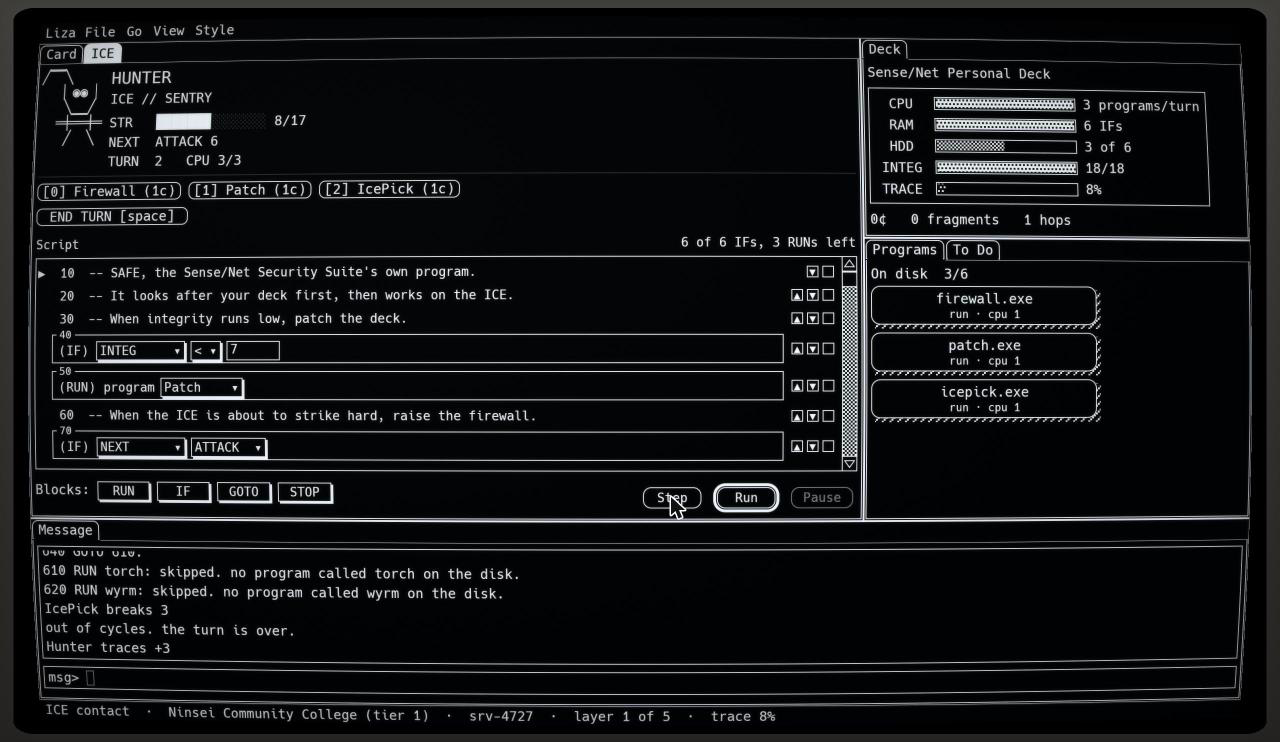
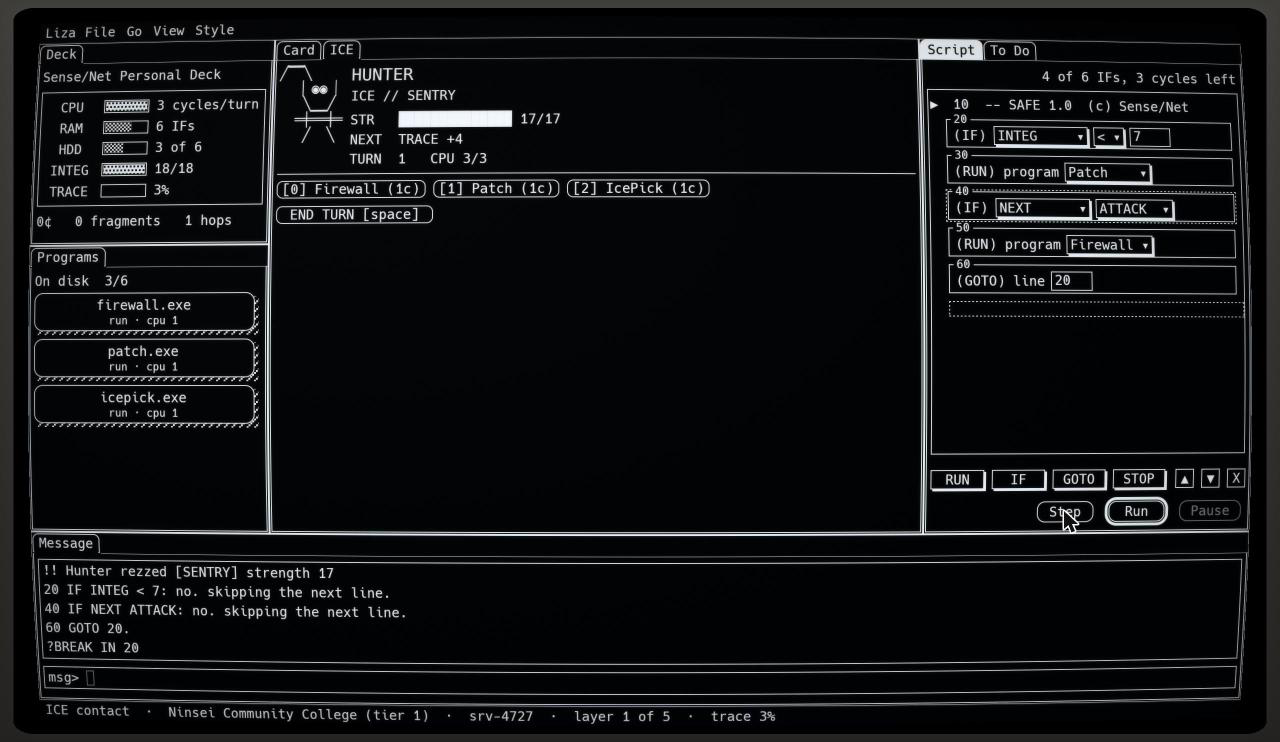
docs: the Script pane and the Stack's three columns; new shots

Changed region(s): [[0.0312, 0.031, 0.9688, 0.8989]]

diff --git a/docs/architecture.md b/docs/architecture.md
@@ -88,12 +88,12 @@ Monitors and decks live in `data/hub/hardware.ron` (`HardwareDef::validate`); wh
 
 ## The run screen
 
-- **Chromes are plug-ins.** A firmware's `hardware::Chrome` picks how the run screen is dressed; `crates/app/src/chrome.rs` maps it to a `ChromeView` (`chrome::view`): one method per pane, plus tab titles, menus (arranged from shared `MenuPart`s), the status line, an optional bar under the panes, keys, an overlay and the default layout. Every method defaults to Classic, so a new chrome is a `Chrome` variant plus a `ChromeView` that overrides only what it changes. Never test the chrome in a pane; ask the view. `btop.rs` (`Chrome::Btop`), `suite.rs` (`Chrome::Suite`, the Hosaka) and `stack.rs` (`Chrome::Stack`, the Sense/Net: HyperCard, 1-bit; `ChromeView::one_bit` keeps glitches from splitting colour, `ChromeView::palette` folds the run to ink on paper, `ChromeView::dock_style` dresses the panels as HyperCard windows, and a fight puts the **Script card** under the ICE: `ninsei_core::stack_fight::card` decides it (the program's lines as `Block`s with their `Field`s, pop-up menus that list only the disk and number fields, the ▶ on the line about to run, which of Step, Run and Pause can be pressed, and the budgets in words), and `stack_fight::{set_field, add, insert_before, remove, swap}` turn an edit into one `Action::Program` with one line rewritten, so the card holds nothing of its own; `stack.rs` only draws it with the Liza kit (`popup_menu`, `text_field`, `dotted`, `push_button`), scrolling rows of their own heights a whole row at a time, a palette chip clicked or dragged (egui's drag and drop, `BlockKind` the payload) to add a block, and its keys through `ChromeView::keys` before the shared hotkeys: Enter presses Run, Esc pauses a running program and never closes anything) are the three so far; the suite's rules (sheet sorting, formulas, axes, work-order totals, dialogs via `suite::Watch`) live in core's `suite.rs`. The btop chrome (`crates/app/src/btop.rs`) keeps its timings in `btop::anim` and colours its gradients with `btop::ramp` (`faint → dim → fg → bright`); dot-graph maths is `history::plot`, tested in core; the font has no braille, so the app paints the dots. Both chromes lay their frames out on the kit's cells in their own 12pt type: btop's boxes (`btop::boxed`: the border through the outer cells, the title turned into the top edge `┐title┌` and a note turned up into the bottom one `┘note└`, both cut with `…` to fit, the body 10px and 12px inside the line as before, and always drawn, however small the box) meters (`Cells::gauge` with dotted unlit cells: a little thinner than the old meter and square-cornered, the kit's cell) and the warez table, whose NAME is as wide as the widest real name, dropping CPU before it would slice one; the suite's document window (`suite::window`: the kit's double frame with `[■]` and `[n]` set in its top edge, a heading row only for a document's own title, never repeating its tab, a 5px shadow, and the body always drawn), its status line and F-key legend (one-row kit sheets), its dialogs' bodies (a sheet, lines wrapped), its activity log (whole rows of cells through `ScrollArea::show_rows`, only the rows in view painted), and its spreadsheet, whose columns come from core's `suite::sheet_widths` (each its widest real value and its header with a sort arrow, a cell of padding either side), so nothing is cut at a clip rect.
+- **Chromes are plug-ins.** A firmware's `hardware::Chrome` picks how the run screen is dressed; `crates/app/src/chrome.rs` maps it to a `ChromeView` (`chrome::view`): one method per pane, plus tab titles, menus (arranged from shared `MenuPart`s), the status line, an optional bar under the panes, keys, an overlay and the default layout. Every method defaults to Classic, so a new chrome is a `Chrome` variant plus a `ChromeView` that overrides only what it changes. Never test the chrome in a pane; ask the view. `btop.rs` (`Chrome::Btop`), `suite.rs` (`Chrome::Suite`, the Hosaka) and `stack.rs` (`Chrome::Stack`, the Sense/Net: HyperCard, 1-bit; `ChromeView::one_bit` keeps glitches from splitting colour, `ChromeView::palette` folds the run to ink on paper, `ChromeView::dock_style` dresses the panels as HyperCard windows, and its **Script pane** is the **Script card**, on screen the whole run beside the ICE card: `ninsei_core::stack_fight::card` decides it (with `Card::fighting` and `Card::budget_words`: the budgets left this turn in a fight, the deck's limits a turn outside one, where Step, Run and Pause stay greyed) (the program's lines as `Block`s with their `Field`s, pop-up menus that list only the disk and number fields, the ▶ on the line about to run, which of Step, Run and Pause can be pressed, and the budgets in words), and `stack_fight::{set_field, add, insert_before, remove, swap}` turn an edit into one `Action::Program` with one line rewritten, so the card holds nothing of its own; `stack.rs` only draws it with the Liza kit (`popup_menu`, `text_field`, `dotted`, `push_button`), scrolling rows of their own heights a whole row at a time, a palette chip clicked or dragged (egui's drag and drop, `BlockKind` the payload) to add a block, a click on a block selecting it (view state in egui memory, by line number, dropped when the line goes) for the palette's move and clear boxes (`stack_fight::moved_to` says where a moved block lands, so the selection follows it), the Deck card's bars sized to the column (`bar_width`), and its keys through `ChromeView::keys` before the shared hotkeys: Enter presses Run, Esc pauses a running program and never closes anything) are the three so far; the suite's rules (sheet sorting, formulas, axes, work-order totals, dialogs via `suite::Watch`) live in core's `suite.rs`. The btop chrome (`crates/app/src/btop.rs`) keeps its timings in `btop::anim` and colours its gradients with `btop::ramp` (`faint → dim → fg → bright`); dot-graph maths is `history::plot`, tested in core; the font has no braille, so the app paints the dots. Both chromes lay their frames out on the kit's cells in their own 12pt type: btop's boxes (`btop::boxed`: the border through the outer cells, the title turned into the top edge `┐title┌` and a note turned up into the bottom one `┘note└`, both cut with `…` to fit, the body 10px and 12px inside the line as before, and always drawn, however small the box) meters (`Cells::gauge` with dotted unlit cells: a little thinner than the old meter and square-cornered, the kit's cell) and the warez table, whose NAME is as wide as the widest real name, dropping CPU before it would slice one; the suite's document window (`suite::window`: the kit's double frame with `[■]` and `[n]` set in its top edge, a heading row only for a document's own title, never repeating its tab, a 5px shadow, and the body always drawn), its status line and F-key legend (one-row kit sheets), its dialogs' bodies (a sheet, lines wrapped), its activity log (whole rows of cells through `ScrollArea::show_rows`, only the rows in view painted), and its spreadsheet, whose columns come from core's `suite::sheet_widths` (each its widest real value and its header with a sort arrow, a cell of padding either side), so nothing is cut at a clip rect.
 - **The sound pop-out is the chrome's.** Every run screen has one control for the sound: the level (`Save::volume`, a percentage, full by default) and the switch (`Save::sound`, the same one the System app shows). `crates/app/src/volume.rs` holds what's shared: `volume::Level` read from the save, `volume::Popup` (open, and what was set when it opened, so a Cancel can put it back), `Level::to` turning a change into `Request::Volume` and `Request::SoundOn`, and `volume::start`/`volume::keys`, which take the keyboard from the command line while it's open (the run's hotkeys, the chrome's keys and the terminal's focus all stand back; however it closes, the command line gets the keys back). It never opens over something that already has the keyboard (`App::modal_up`: a BBS, a conversation, a suite notice), and one of those coming up closes it. `volume::hit` names a control drawn in cells or pixels. The chrome opens and dresses it: a `MenuPart::Sound` item worded by `ChromeView::sound_item`, and `ChromeView::sound`, drawn over the overlay while it's open. The classic default is a small window with a slider; btop puts a bar-module speaker in its status line (`ChromeView::status_extra`, which gets a `FrameCx` and returns requests) that opens a box of whole cells over it; the suite has Edit > Sound..., a dialog with OK and Cancel, drawn by the same `suite::dialog` and `suite::buttons` as its notices; Liza has View > Control Panel..., the Mac's Speaker Volume slider (0 to 7) and a Sound box in a striped window (`liza::window_frame`). Notches map to the level through core's `hub::volume_notch` and `hub::notch_volume`. The pop-out only pushes requests; `main.rs` applies them to the save and the speaker.
-- **Panes are modular, and secondary panes are owned.** `panes::Tab` lists every pane: `Tab::CORE` are always there; `Tab::SECONDARY` pairs each extra pane with its id in `data/hub/panes.ron` (`PaneDef`). A secondary pane is available when bought in RIG (`Save::buy_pane`, `Save::panes`) or bundled with the firmware (`FirmwareDef::panes`); read it with `Save::has_pane`. A new pane is a variant, an id, a catalog entry and a renderer, dressed by each chrome (`ChromeView::net` is the pattern). The two so far are `net` (traffic, bundled with Cyberspace 7.0) and `vis` (`Tab::Vis`, sold only): what the speaker is playing, from `Panes::hear`, which calls `Speaker::listen` only when a vis pane is drawn (a tab behind another one never asks), and `vispane::alive` asks for frames only while something is heard. It never reads the game. The maths is core's `scope.rs` (a Hann-weighted radix-2 FFT into bars spaced evenly in pitch, levels in dB, and `ballistics`: bars jump up and fall at `FALL_PER_SEC`). `vispane.rs` has the shared parts: the trace, `bars` (asks for frames only while a bar is still falling, so silence is still), and `held` (numbers take a new reading every `HOLD_SECS`, so they never strobe). btop draws a box of cell columns (`Cells::meter_up`), the suite a SOUND LEVEL REPORT (a form and a band chart in dB), and the Stack chrome (the Sense/Net) a 1-bit Scope card with a dotted ink graticule. The default layout is the chrome's (`ChromeView::default_layout`) with the panes the player has; the player's layout is saved per firmware (keyed by maker and firmware id, so it follows a brand's models) in `Save::layouts` as opaque RON the app writes (`Save::set_layout`/`layout`, core never parses it). Anything that won't read back or lacks a core pane falls back to the default, and panes the player doesn't have are dropped (`parse_layout`).
+- **Panes are modular, and secondary panes are owned.** `panes::Tab` lists every pane: `Tab::CORE` are always there; `Tab::SECONDARY` pairs each extra pane with its id in `data/hub/panes.ron` (`PaneDef`). A secondary pane is available when bought in RIG (`Save::buy_pane`, `Save::panes`) or bundled with the firmware (`FirmwareDef::panes`); read it with `Save::has_pane`. A new pane is a variant, an id, a catalog entry and a renderer, dressed by each chrome (`ChromeView::net` is the pattern). `Tab::Script` is a core pane: the deck's program, on screen from a run's first frame, dressed by `ChromeView::script` (the classic dress is the terminal's `prog` listing until a deck designs its own; the Stack's is the Script card, below under Chromes). The two secondary panes so far are `net` (traffic, bundled with Cyberspace 7.0) and `vis` (`Tab::Vis`, sold only): what the speaker is playing, from `Panes::hear`, which calls `Speaker::listen` only when a vis pane is drawn (a tab behind another one never asks), and `vispane::alive` asks for frames only while something is heard. It never reads the game. The maths is core's `scope.rs` (a Hann-weighted radix-2 FFT into bars spaced evenly in pitch, levels in dB, and `ballistics`: bars jump up and fall at `FALL_PER_SEC`). `vispane.rs` has the shared parts: the trace, `bars` (asks for frames only while a bar is still falling, so silence is still), and `held` (numbers take a new reading every `HOLD_SECS`, so they never strobe). btop draws a box of cell columns (`Cells::meter_up`), the suite a SOUND LEVEL REPORT (a form and a band chart in dB), and the Stack chrome (the Sense/Net) a 1-bit Scope card with a dotted ink graticule. The default layout is the chrome's (`ChromeView::default_layout`) with the panes the player has; the player's layout is saved per firmware (keyed by maker and firmware id, so it follows a brand's models) in `Save::layouts` as opaque RON the app writes (`Save::set_layout`/`layout`, core never parses it). Anything that won't read back or lacks a core pane falls back to the default, and panes the player doesn't have are dropped (`parse_layout`).
 - **The network map has three views.** `crates/app/src/netmap.rs` holds what they share (fog, targets, tags, clicks, the hint) and hands off to `netmap_iso.rs` (wireframes over a grid), `netmap_draft.rs` (a flat technical drawing) or `netmap_paint.rs` (a 1-bit picture, nodes filled with patterns from `data/patterns.ron`, two colours only), picked by the deck's firmware (`Save::firmware_def(..).map`). Shapes, symbols and paint fills per node kind are data (`data/netmap.ron`, `MapStyleDef::validate`, paint fills checked against the patterns); meshes, the isometric camera (`Iso`) and node placement (`netview::flat_layout`) live in core (`netview.rs`) and are tested there. Map colours come from the palette: grid `faint`, wires `fg`, fills `dim`, highlights `bright`. Map animation (derez bursts, the jack-in sweep, trace pressure, hover) lives in `netmap::Anim`, remembered in egui's memory rather than the game, with every timing in `netmap::anim`; the hop trail comes from `Game::travelled`.
 - **Fights have a view; the preview is the rule.** `Game::preview(slot)` (`crates/core/src/fight.rs`) says what running a program would do now or why it can't, and `Action::Run` resolves through it, so a hint can never disagree with what happens. Nothing loads: every program on the HDD can run (`Slot` has no loaded flag, warez have no RAM cost, binary byte 07 is reserved, and the hex editor's budget is `BUDGET_PER_CPU * cpu + BUDGET_PER_OPT * opt`).
-- **Fights run a program** (design: `docs/design.md`, "Fights: the deck runs a program"). The language is `crates/core/src/basic.rs`: `basic::parse` turns text into a `Program` of numbered `Line`s (`Stmt::Run`, `If(Cond)`, `Goto`, `Stop`, `Rem`, and `Bad` for a line that doesn't parse, kept and skipped so a typo never halts a fight; `Program::fault` names what's wrong, a GOTO to nowhere included; text with no line number is `Program::stray`, kept as typed and never run), `Program::text` prints it back, `set_line`/`remove` edit it, and `basic::names` says what a program name in a RUN or HAVE matches (name, file name or factory id), for fights and validation alike; it knows nothing of a fight. The deck holds one program: `Save::program` (`None` until a run ends: the starting kit's, `StartsDef::program`, where a kit without one ships the default kit's, read with `Save::program_text`; `Data::validate` rejects a kit program with a bad line or a RUN or HAVE naming no warez through `hub::program_fault`), handed to the run as `Kit::program`, parsed into `Game::program` and written back by `Save::record` however the run ended. `Game::exec` (`Exec`: an `ExecState` of `Paused`, `Running` or `Stopped(line)`, the line about to run, and this turn's pass as `Step`s) is reset at each fight's start with the cursor on the first line. `Action::Step` runs one pass (`Game::pass`): from the top (or past a STOP) until the program ends, a STOP, the cycles run out or `Combat::ifs` (one GB of `deck.ram_max` per IF evaluated, reset each turn) is empty; each RUN finds its slot by name (`Game::slot_named`), asks `preview`, and is applied as `Action::Run`, so history and cues hear each one; then, unless it stopped or hung, `Action::EndTurn`. Each step is said in the log as it happens (`Game::step_text`; a RUN says nothing more than the program's own line), so the pass reads before what the ICE does after it. A pass that comes back to a line without running anything is a hang: `?BREAK IN <line>`, the debugger has the turn and the turn doesn't end. A false IF skips its line, and a skipped IF skips its own (two IFs in a row are an AND). `Action::Play` sets `Running` and runs a pass, and the app's frame loop plays a `Running` program a pass every `PASS_SECS` (`drive_program` in `main.rs`); `Pause` hands the turn back; after a STOP (`Stopped(line)`) the next Step or Play carries on past it in the same turn; `Program(text)` replaces the program at any time (after a STOP it carries on from the first line past it), and the hotbar's `Action::Run` works whatever the state. Views read `Game::program_view` (each line's text, the current line, STOP and fault marks, the budgets left, the pass) and `Game::step_text` (a pass's step as the OS says it, a sentence per line), and `Game::ifs_left` for the RAM meters. The run terminal drives it (`command.rs`: `prog` lists, through `command::listing`, `prog <n> <line>` types a line in, `prog <n>` deletes it, and `step`, `play` and `pause` are the actions). The Sense/Net's fight screen is the Stack chrome's Script card (below, under Chromes); until another deck has its screen, its chrome keeps the hotbar fight. The wireframe's damage is core too (`fight::broken`, `edges_left`, `break_order`) and tested there. The Ono-Sendai's fight view (`crates/app/src/fightview.rs`) is what the btop chrome's map pane shows in `Phase::Combat` (`ChromeView::network`; `ChromeView::combat_tab` brings it forward). It only reads the game, keeps its animation state in egui memory and its timings in `fightview::anim`, and runs programs through `Panes::act`.
+- **Fights run a program** (design: `docs/design.md`, "Fights: the deck runs a program"). The language is `crates/core/src/basic.rs`: `basic::parse` turns text into a `Program` of numbered `Line`s (`Stmt::Run`, `If(Cond)`, `Goto`, `Stop`, `Rem`, and `Bad` for a line that doesn't parse, kept and skipped so a typo never halts a fight; `Program::fault` names what's wrong, a GOTO to nowhere included; text with no line number is `Program::stray`, kept as typed and never run), `Program::text` prints it back, `set_line`/`remove` edit it, and `basic::names` says what a program name in a RUN or HAVE matches (name, file name or factory id), for fights and validation alike; it knows nothing of a fight. The deck holds one program: `Save::program` (`None` until a run ends: the starting kit's, `StartsDef::program`, where a kit without one ships the default kit's, read with `Save::program_text`; `Data::validate` rejects a kit program with a bad line or a RUN or HAVE naming no warez through `hub::program_fault`), handed to the run as `Kit::program`, parsed into `Game::program` and written back by `Save::record` however the run ended. `Game::exec` (`Exec`: an `ExecState` of `Paused`, `Running` or `Stopped(line)`, the line about to run, and this turn's pass as `Step`s) is reset at each fight's start with the cursor on the first line. `Action::Step` runs one pass (`Game::pass`): from the top (or past a STOP) until the program ends, a STOP, the cycles run out or `Combat::ifs` (one GB of `deck.ram_max` per IF evaluated, reset each turn) is empty; each RUN finds its slot by name (`Game::slot_named`), asks `preview`, and is applied as `Action::Run`, so history and cues hear each one; then, unless it stopped or hung, `Action::EndTurn`. Each step is said in the log as it happens (`Game::step_text`; a RUN says nothing more than the program's own line), so the pass reads before what the ICE does after it. A pass that comes back to a line without running anything is a hang: `?BREAK IN <line>`, the debugger has the turn and the turn doesn't end. A false IF skips its line, and a skipped IF skips its own (two IFs in a row are an AND). `Action::Play` sets `Running` and runs a pass, and the app's frame loop plays a `Running` program a pass every `PASS_SECS` (`drive_program` in `main.rs`); `Pause` hands the turn back; after a STOP (`Stopped(line)`) the next Step or Play carries on past it in the same turn; `Program(text)` replaces the program at any time (after a STOP it carries on from the first line past it), and the hotbar's `Action::Run` works whatever the state. Views read `Game::program_view` (each line's text, the current line, STOP and fault marks, the budgets left, the pass) and `Game::step_text` (a pass's step as the OS says it, a sentence per line), and `Game::ifs_left` for the RAM meters. The run terminal drives it (`command.rs`: `prog` lists, through `command::listing`, `prog <n> <line>` types a line in, `prog <n>` deletes it, and `step`, `play` and `pause` are the actions). The Sense/Net's fight screen is the Stack chrome's Script pane (the Script card, under Chromes); until another deck has its screen, its chrome keeps the hotbar fight. The wireframe's damage is core too (`fight::broken`, `edges_left`, `break_order`) and tested there. The Ono-Sendai's fight view (`crates/app/src/fightview.rs`) is what the btop chrome's map pane shows in `Phase::Combat` (`ChromeView::network`; `ChromeView::combat_tab` brings it forward). It only reads the game, keeps its animation state in egui memory and its timings in `fightview::anim`, and runs programs through `Panes::act`.
 
 ## Terminals
 

diff --git a/docs/design.md b/docs/design.md
@@ -37,7 +37,7 @@ deck ─> firmware ─────┘
 | `sounds` | `sensenet`: square beeps, a warm chord, a gentle "boing", and a run soundtrack per network tier like a 1980s Mac adventure game: square tunes over triangle basses in major keys, gentle at tier 1 and uneasy at tier 3. As the trace climbs, a quiet triangle part drops out (the countermelody, the offbeat chords or the held line in thirds) and then the tempo rises ✅ | `ono`: harsh squares, noise bursts, chiptune arpeggios, and a looping chiptune soundtrack per network tier that thins out and speeds up as the trace climbs ✅ | `hosaka`: soft sine chimes, a polite ding, a tidy shutdown tune, and hold music for the runs: a tune per network tier in what an office plays while you wait (sine tunes over a bossa or walking bass, major sevenths, a polite tempo). Tier 1 is the lobby, tier 2 the department and tier 3 the executive floor, still polite but colder. As the trace climbs, the calm goes wrong while staying polite: the chords or the tune drop out and it turns hollow, then the hold music hurries ✅ |
 | volume | View > Control Panel...: the Mac's Speaker Volume slider (0 to 7) and a Sound check box, in a striped window with a close box ✅ | a speaker on the status line, as a bar module shows it, that opens a btop box over it: a meter, `- 70% +` cut into the edge, `[x] mute` ✅ | Edit > Sound...: a dialog with a Volume bar, a Mute box, OK and Cancel ✅ |
 | vis pane | a Scope card: a 1-bit oscilloscope in a field ✅ | a btop box: the spectrum in columns of cells along the gradient, the level in its edge ✅ | SOUNDLVL.RPT: a sound level report, level and peak on a form, the level by band as a bar chart ✅ |
-| fights | a Mac alert beside the card: the hardest hit as the ringed default button, a shield ✅; next: the deck's program as a stack of blocks with Step, Run, Pause (see *Fights*) | the map dives into the node: the ICE as a wireframe over a horizon grid, a program hotbar with previews ✅; next: `ice.bas` and a `gdb` box under the wireframe | an incident report with a strength chart and an agenda ✅; next: a Turbo Debugger Module window and Watches |
+| fights | the ICE card (the ICE, its hotbar, End Turn) in the centre, and the deck's program as a stack of blocks with Step, Run, Pause in the Script pane beside it ✅ (see *Fights*) | the map dives into the node: the ICE as a wireframe over a horizon grid, a program hotbar with previews ✅; next: `ice.bas` and a `gdb` box under the wireframe | an incident report with a strength chart and an agenda ✅; next: a Turbo Debugger Module window and Watches |
 | damage | 1-bit glitches: tearing and noise, never an RGB split ✅ (pattern smears and inverted rows: an idea) | screen glitches: tearing, RGB split, corrupted text ✅ | the same, plus corporate error dialogs (idea below) |
 | add-ons | Alarm Clock, a Calculator desk accessory under the eye, a desktop pattern, MultiFinder ✅ |  |  |
 | games | a window like any program's, titled by the copy's label (`Nibbler`, `NIBBLER [2K4]`), in Liza's two colours: the field in its frame, walls and covered squares in the 50% gray pattern, blocks outlined; a **Games** menu before Special lists each copy you own ✅ | a tile, labelled in lower case like the others (`blox [phs]`), from the launcher or `run blox`; the leader's keys stay the desktop's ✅ | a window titled with its version (`Minefield 1.1`), its icon among the others ✅ |
@@ -154,6 +154,8 @@ The two decks are a start. Each new one should be a new point of view, not a pal
 
 *Designed 2026-11-07 (task 141.1, dossier at the task note). Built by 141.2 (core), 141.4–141.6 (one screen per deck) and 141.3 (ICE that answers back). Until a deck has its screen, its chrome keeps the hotbar fight. ✅ marks what's built: the Sense/Net's Script card (141.4).*
 
+**The Script is a pane, not part of the fight.** It is on screen for the whole run, in its own box, so the program is something you look after between fights as well as during one; Step, Run and Pause only press with ICE in front. Every chrome dresses the one Script pane (until a deck designs its own, it's the terminal's `prog` listing); 141.5 and 141.6 design its dress, not where it lives. The Stack's default layout is three columns over the Message box: the Deck over the Programs on the left (narrow), the Card with ICE and Hex in the centre (widest), the Script in front of To Do on the right (medium; To Do is the least used pane, so it sits behind).
+
 **The idea.** You don't fight ICE by hand. You wrote something that does, and you watch it work. Each deck holds **one program**, kept between runs like the loadout, and every fight opens with it loaded and the cursor on Run. The run screen is already an IDE, so the fight runs like a debugger: Run plays until a STOP, Step plays one pass, Pause hands you the turn (the hotbar is the manual override), Continue gives it back. The program is edited in place, mid-fight if you like; what you leave is what the deck keeps. No window opens, nothing is saved by hand, and there is no library in version 1.
 
 **The language is BASIC**, line-numbered, with four keywords. Everything else is a program you own, so **the warez are the verbs**: a shield is `RUN firewall`, a class match is `IF ICE CODEGATE` / `RUN decoder`. Nothing in code knows what a shield is.
@@ -195,8 +197,8 @@ One pass through the program is one turn: start at the first line and run until 
 | | Sense/Net | Ono-Sendai | Hosaka |
 |---|---|---|---|
 | reference | HyperCard 1.2's button script editor and the Home stack, 1-bit | gdb's TUI in a btop box, with the C64 screen editor's way of retyping a line | Turbo Debugger 2.0: the Module window, Watches, F-keys |
-| the program | ✅ a **stack of operator blocks** (RUN, IF, GOTO, STOP) dragged in from a palette row, each with fields for its parameters; a program menu lists only the disk; the ▶ in the gutter is the line about to run | `ice.bas`: the listing in a box, the current line lit, a STOP marked with a dot in the gutter, the budgets cut into the bottom edge | `PROC-7.BAS` in a Module window: the current line in inverse, a STOP marked with a block in the gutter, the budgets in the bottom edge |
-| the debugger | the button row: Step, Run, Pause, as rounded Mac buttons | a `gdb` box with this pass's trace and a prompt; `r` run, `s` step, `c` continue, `p` pause, `e` edit a line, space hotbar | a Watches window (turn, CPU, IFs, integrity, NEXT, the ICE, the last line's effect); F1 Help, F2 Edit, F4 Run to STOP, F7 Step, F8 Pause, F9 Run, F10 Hotbar (never F5, F6, F11, F12) |
+| the program | ✅ a **stack of operator blocks** (RUN, IF, GOTO, STOP) dragged in from a palette row, each with fields for its parameters; a program menu lists only the disk; the ▶ in the gutter is the line about to run; a click selects a block (a dotted marquee) and the palette's ▲ ▼ X move or clear it, as HyperCard's Objects did, so a row is only the block and fits a ~340px column | `ice.bas`: the listing in a box, the current line lit, a STOP marked with a dot in the gutter, the budgets cut into the bottom edge | `PROC-7.BAS` in a Module window: the current line in inverse, a STOP marked with a block in the gutter, the budgets in the bottom edge |
+| the debugger | the button row under the palette row: Step, Run, Pause, as rounded Mac buttons | a `gdb` box with this pass's trace and a prompt; `r` run, `s` step, `c` continue, `p` pause, `e` edit a line, space hotbar | a Watches window (turn, CPU, IFs, integrity, NEXT, the ICE, the last line's effect); F1 Help, F2 Edit, F4 Run to STOP, F7 Step, F8 Pause, F9 Run, F10 Hotbar (never F5, F6, F11, F12) |
 | the trace | the Message box, a sentence per line | a terminal line | an activity-log row with a reference number |
 
 **Set aside.** `SHIELD`, `SCRUB` and `BEST BREAKER` as keywords (the warez are the verbs); a breakpoints pane (STOP is a line; a gutter mark is a view of it, never a second mechanism); downloaded editor and debugger (they are the deck's own software, dressed per chrome; "tools are downloaded" stays about the desktop's apps); a program library (deferred); a pure deckbuilder or puzzle fights without automation.

diff --git a/README.md b/README.md
@@ -178,9 +178,10 @@ Tabs can be dragged, split and rearranged, and **your layout is saved** (one per
 
 ![net pane](docs/shots/net-pane-synthwave.png)
 
-On the **Sense/Net** the run screen is a HyperCard stack, in the theme's two colours. The panels still drag, resize, close and re-tab like every deck's, dressed as HyperCard windows: ink frames and splitters on paper, rounded tabs, and the front tab inverted. They start in the mockup's arrangement: the Card (the network, with ICE and Hex as its other tabs) large on the left, the deck and the programs on the right, and the Message box along the bottom. The deck is a field of meters that fill with darker patterns as they rise. Programs are rounded buttons with a hatched shadow: click one to run it in a fight. The Message box is the command line under a scrolling log field. In a fight the ICE card holds the **Script card** under the ICE: your deck's program as a stack of blocks (RUN, IF, GOTO, STOP, and `--` comments), each with pop-up menus and number fields for its parameters, the ▶ on the line about to run. Click a block in the palette row to add it (or drag it where it goes), ▲▼ to move one and its close box to take it out. **Step** plays one pass, **Run** keeps playing (Enter), **Pause** hands you the turn (Esc); the hotbar above still runs programs by hand. The Message box says each pass a line at a time. Damage glitches tear and smear but never split colour.
+On the **Sense/Net** the run screen is a HyperCard stack, in the theme's two colours. The panels still drag, resize, close and re-tab like every deck's, dressed as HyperCard windows: ink frames and splitters on paper, rounded tabs, and the front tab inverted. They start in three columns over the Message box: the deck over the programs on the left, the Card (the network, with ICE and Hex as its other tabs) in the middle, and the **Script** in front of To Do on the right. The deck is a field of meters that fill with darker patterns as they rise. Programs are rounded buttons with a hatched shadow: click one to run it in a fight. The Message box is the command line under a scrolling log field. The Script card is there the whole run: your deck's program as a stack of blocks (RUN, IF, GOTO, STOP, and `--` comments), each with pop-up menus and number fields for its parameters, the ▶ on the line about to run. Click a block in the palette row to add it (or drag it where it goes); click a block in the program to select it, then the palette's ▲ ▼ move it and X clears it. With ICE in front, **Step** plays one pass, **Run** keeps playing (Enter), **Pause** hands you the turn (Esc); the ICE card's hotbar still runs programs by hand. The Message box says each pass a line at a time. Damage glitches tear and smear but never split colour.
 
 ![the stack](docs/shots/stack-run.png)
+![the stack, synthwave](docs/shots/stack-run-synthwave.png)
 ![a fight on the stack, paper white](docs/shots/stack-fight-paperwhite.png)
 ![a fight on the stack, synthwave](docs/shots/stack-fight-synthwave.png)
 

diff --git a/docs/refs/liza.md b/docs/refs/liza.md
@@ -4,7 +4,7 @@ The Sense/Net deck's desktop. Reference: the first Macintosh's System 1.x on a 5
 with the Lisa's name (see `docs/design.md`, the Sense/Net's point of view), and the 1992 Human
 Interface Guidelines as the review bar (`.claude/skills/fake-app-craft/references/`). The kit that
 draws it is `crates/app/src/kit/liza.rs`, shared by the Liza desktop (`liza.rs`), System's
-Control Panel (`system.rs`) and the Stack chrome's Script card (`stack.rs`).
+Control Panel (`system.rs`) and the Stack chrome's Script pane (`stack.rs`).
 
 These are the numbers the kit draws to. Change them here and in `kit::liza::size` together.
 
